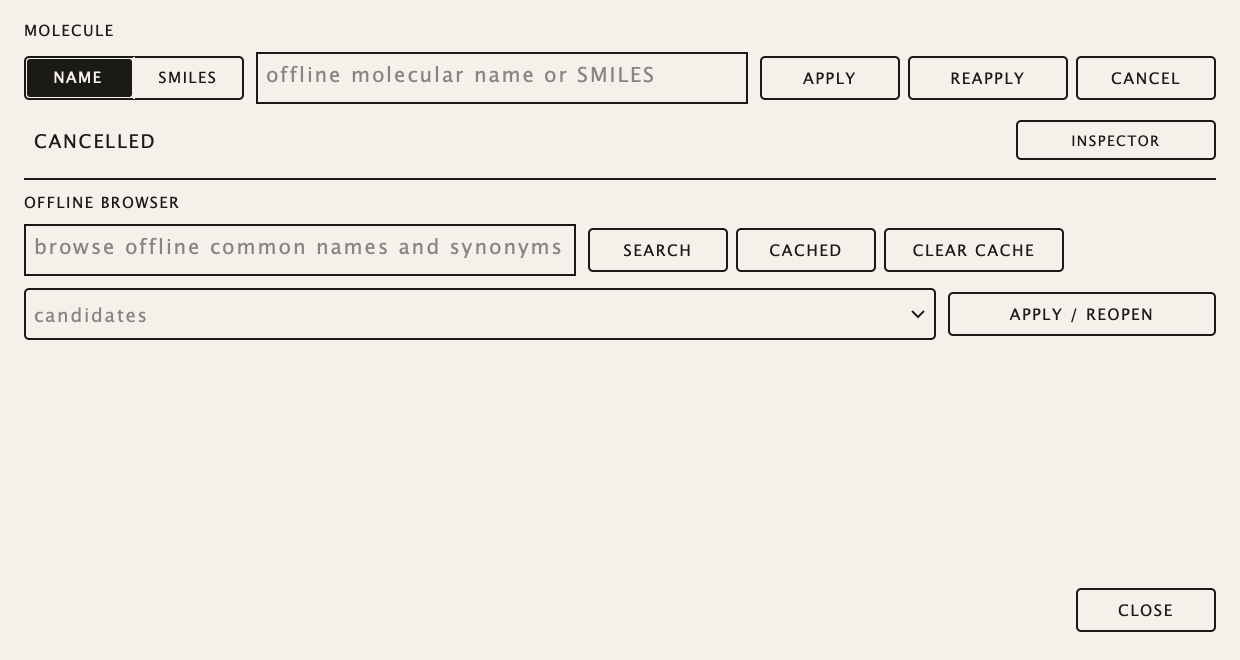
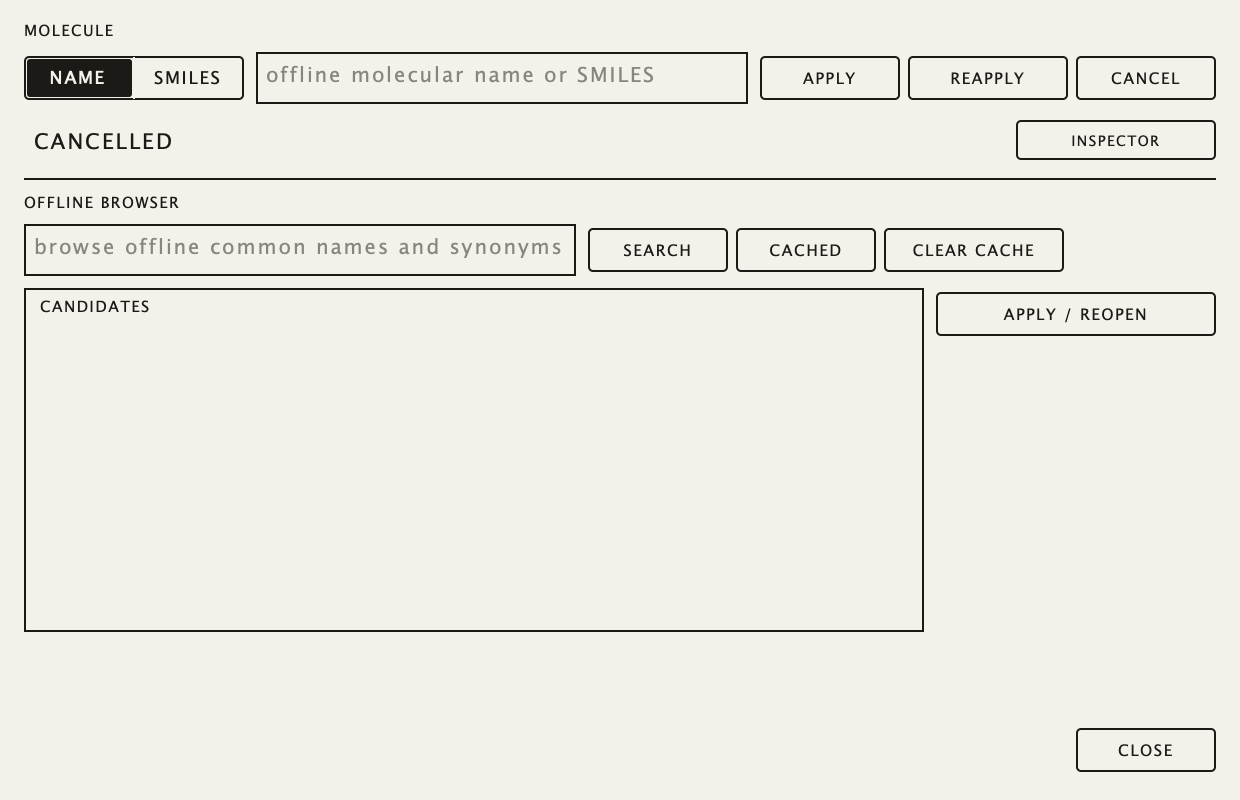
fix(ui): make the chemistry candidate list a scrollable ListBox (#103) (#107)

diff --git a/src/plugin/ChemistryPopup.cpp b/src/plugin/ChemistryPopup.cpp
@@ -7,32 +7,54 @@ ChemistryPopup::ChemistryPopup(IupacSynthProcessor&o):owner_(o)
  setName("Chemistry popup");for(auto*c:std::initializer_list<juce::Component*>{&mode_,&input_,&apply_,&reapply_,&cancel_,&status_,&inspector_,&trace_,&query_,&search_,&cached_,&clearCache_,&results_,&open_,&metadata_,&closeButton_})addAndMakeVisible(c);
  input_.setTextToShowWhenEmpty("offline molecular name or SMILES",ui::ink.withAlpha(0.5f));input_.setName("Molecular input");input_.setFont(ui::labelFont(12.0f));query_.setTextToShowWhenEmpty("browse offline common names and synonyms",ui::ink.withAlpha(0.5f));query_.setName("Offline discovery query");query_.setFont(ui::labelFont(12.0f));
  trace_.setMultiLine(true);trace_.setReadOnly(true);trace_.setVisible(false);trace_.setName("Analysis SonicIntent and mapping trace");trace_.setFont(juce::Font(juce::FontOptions(juce::Font::getDefaultMonospacedFontName(),10.0f,juce::Font::plain)));inspector_.setClickingTogglesState(true);inspector_.setName("Analysis / SonicIntent / mapping trace");
- status_.setName("Chemistry status");status_.setJustificationType(juce::Justification::centredLeft);metadata_.setName("Selected record structure and provenance");metadata_.setJustificationType(juce::Justification::centredLeft);metadata_.setMinimumHorizontalScale(0.5f);results_.setName("Bounded offline discovery candidates or cached results");results_.setTextWhenNothingSelected("candidates");
+ status_.setName("Chemistry status");status_.setJustificationType(juce::Justification::centredLeft);metadata_.setName("Selected record structure and provenance");metadata_.setJustificationType(juce::Justification::centredLeft);metadata_.setMinimumHorizontalScale(0.5f);results_.setName("Bounded offline discovery candidates or cached results");results_.setModel(this);results_.setRowHeight(18);results_.setOutlineThickness((int)ui::hairline);results_.setMultipleSelectionEnabled(false);results_.setWantsKeyboardFocus(true);
+ // The rows paint their own opaque background, so the box itself stays clear and the popup can draw the
+ // "candidates" hint underneath while the list is empty.
+ results_.setColour(juce::ListBox::backgroundColourId,juce::Colours::transparentBlack);
  // The popup no longer closes on Apply and waits for nothing on the message thread (#97):
  // the request runs on the coordinator's worker, the 10 Hz timer below shows the stage it
  // reports, and the dialog closes only once that request has actually produced a sound.
  apply_.onClick=[this]{if(input_.getText().trim().isEmpty()){status_.setText("enter a name or SMILES",juce::dontSendNotification);return;}awaitedGeneration_=owner_.applyChemistry(mode_.index()==0?chemistry::InputMode::name:chemistry::InputMode::smiles,input_.getText().toStdString());showPending(true);timerCallback();};
  reapply_.onClick=[this]{const auto e=owner_.reapplyChemistry();if(!e.empty()){if(onResult)onResult(e,{});status_.setText(e,juce::dontSendNotification);return;}awaitedGeneration_=owner_.chemistryStatus().generation;showPending(true);timerCallback();};
- cancel_.onClick=[this]{owner_.cancelChemistry();owner_.cancelDiscovery();showPending(false);};inspector_.onClick=[this]{trace_.setVisible(inspector_.getToggleState());if(onPreferredSize)onPreferredSize(getWidth(),trace_.isVisible()?560:330);resized();};
+ cancel_.onClick=[this]{owner_.cancelChemistry();owner_.cancelDiscovery();showPending(false);};inspector_.onClick=[this]{trace_.setVisible(inspector_.getToggleState());if(onPreferredSize)onPreferredSize(getWidth(),trace_.isVisible()?630:400);resized();};
  search_.onClick=[this]{owner_.searchDiscovery(query_.getText().toStdString(),true);};cached_.onClick=[this]{owner_.inspectGeneratedCache();};clearCache_.onClick=[this]{const auto e=owner_.clearGeneratedCache();status_.setText(e.empty()?"Generated cache cleared; presets untouched":e,juce::dontSendNotification);};
- results_.onChange=[this]{auto i=results_.getSelectedItemIndex();if(i>=0&&i<candidates_.size()){auto r=candidates_[i];metadata_.setText(r.getProperty("recordId",{}).toString()+r.getProperty("key",{}).toString()+" | "+r.getProperty("canonicalIsomericSmiles",{}).toString()+r.getProperty("identity",{}).toString()+" | "+r.getProperty("validationStatus",{}).toString()+" | "+r.getProperty("revisionUrl",{}).toString(),juce::dontSendNotification);}};
  // A cached result is a file and loads at once; a validated structure starts the same
  // background generation Apply does, so it gets the same pending state rather than a
  // closed popup and a silent wait (#97).
- open_.onClick=[this]{auto i=results_.getSelectedItemIndex();if(i<0||i>=candidates_.size()){status_.setText("select an explicit discovery candidate or cached result",juce::dontSendNotification);return;}const auto before=owner_.chemistryStatus().generation;const auto e=owner_.applyDiscovery(candidates_[i]);if(!e.empty()){if(onResult)onResult(e,{});status_.setText(e,juce::dontSendNotification);return;}const auto after=owner_.chemistryStatus().generation;if(after!=before){awaitedGeneration_=after;showPending(true);timerCallback();return;}if(onResult)onResult({},"Selected sound loaded");close();};
+ open_.onClick=[this]{const auto i=selectedCandidate();if(i<0){status_.setText("select an explicit discovery candidate or cached result",juce::dontSendNotification);return;}const auto before=owner_.chemistryStatus().generation;const auto e=owner_.applyDiscovery(candidates_[i]);if(!e.empty()){if(onResult)onResult(e,{});status_.setText(e,juce::dontSendNotification);return;}const auto after=owner_.chemistryStatus().generation;if(after!=before){awaitedGeneration_=after;showPending(true);timerCallback();return;}if(onResult)onResult({},"Selected sound loaded");close();};
  closeButton_.onClick=[this]{close();};query_.onReturnKey=[this]{search_.triggerClick();};input_.onReturnKey=[this]{apply_.triggerClick();};
- setSize(620,330);timerCallback();startTimerHz(10);
+ setSize(620,400);timerCallback();startTimerHz(10);
 }
 ChemistryPopup::~ChemistryPopup(){stopTimer();}
 void ChemistryPopup::close(){if(onClose)onClose();}
+int ChemistryPopup::getNumRows(){return labels_.size();}
+int ChemistryPopup::selectedCandidate()const{const auto row=results_.getSelectedRow();return row>=0&&row<candidates_.size()?row:-1;}
+void ChemistryPopup::paintListBoxItem(int row,juce::Graphics&g,int width,int height,bool selected)
+{
+ if(row<0||row>=labels_.size())return;
+ g.setColour(selected?ui::ink:ui::ground);g.fillRect(0,0,width,height);
+ g.setColour(selected?ui::ground:ui::ink);g.setFont(ui::labelFont(juce::jlimit(ui::minimumTextHeight,ui::scaledText(*this,10.0f),(float)height*0.62f)));
+ g.drawFittedText(labels_[row].toUpperCase(),juce::Rectangle<int>(0,0,width,height).reduced(6,0),juce::Justification::centredLeft,1,1.0f);
+}
+void ChemistryPopup::selectedRowsChanged(int)
+{
+ const auto i=selectedCandidate();if(i<0){metadata_.setText({},juce::dontSendNotification);return;}
+ auto r=candidates_[i];metadata_.setText(r.getProperty("recordId",{}).toString()+r.getProperty("key",{}).toString()+" | "+r.getProperty("canonicalIsomericSmiles",{}).toString()+r.getProperty("identity",{}).toString()+" | "+r.getProperty("validationStatus",{}).toString()+" | "+r.getProperty("revisionUrl",{}).toString(),juce::dontSendNotification);
+}
 void ChemistryPopup::showPending(bool pending){awaiting_=pending;if(!pending)awaitedGeneration_=0;apply_.setEnabled(!pending);reapply_.setEnabled(!pending);open_.setEnabled(!pending);}
-void ChemistryPopup::paint(juce::Graphics&g){g.fillAll(ui::ground);g.setColour(ui::ink);ui::drawCaption(g,"molecule",juce::Rectangle<int>(12,8,200,14),juce::Justification::centredLeft,9.0f);ui::drawCaption(g,"offline browser",browserTitle_,juce::Justification::centredLeft,9.0f);g.drawLine(12.0f,(float)browserTitle_.getY()-4.5f,(float)getWidth()-12.0f,(float)browserTitle_.getY()-4.5f,ui::hairline);}
+void ChemistryPopup::paint(juce::Graphics&g){g.fillAll(ui::ground);g.setColour(ui::ink);ui::drawCaption(g,"molecule",juce::Rectangle<int>(12,8,200,14),juce::Justification::centredLeft,9.0f);ui::drawCaption(g,"offline browser",browserTitle_,juce::Justification::centredLeft,9.0f);if(labels_.isEmpty())ui::drawCaption(g,"candidates",results_.getBounds().withHeight(18).reduced(8,0),juce::Justification::centredLeft,9.0f);g.drawLine(12.0f,(float)browserTitle_.getY()-4.5f,(float)getWidth()-12.0f,(float)browserTitle_.getY()-4.5f,ui::hairline);}
 void ChemistryPopup::resized()
 {
  auto r=getLocalBounds().reduced(12);r.removeFromTop(14);auto line=r.removeFromTop(26);mode_.setBounds(line.removeFromLeft(110).reduced(0,2));line.removeFromLeft(6);cancel_.setBounds(line.removeFromRight(70).reduced(0,2));line.removeFromRight(4);reapply_.setBounds(line.removeFromRight(80).reduced(0,2));line.removeFromRight(4);apply_.setBounds(line.removeFromRight(70).reduced(0,2));line.removeFromRight(6);input_.setBounds(line);
  r.removeFromTop(6);line=r.removeFromTop(24);inspector_.setBounds(line.removeFromRight(100).reduced(0,2));status_.setBounds(line);r.removeFromTop(12);browserTitle_=r.removeFromTop(14);r.removeFromTop(4);
  line=r.removeFromTop(26);query_.setBounds(line.removeFromLeft(juce::jmax(160,line.getWidth()-320)));line.removeFromLeft(6);search_.setBounds(line.removeFromLeft(70).reduced(0,2));line.removeFromLeft(4);cached_.setBounds(line.removeFromLeft(70).reduced(0,2));line.removeFromLeft(4);clearCache_.setBounds(line.removeFromLeft(90).reduced(0,2));
- r.removeFromTop(6);line=r.removeFromTop(26);results_.setBounds(line.removeFromLeft(juce::jmax(160,line.getWidth()-140)));line.removeFromLeft(6);open_.setBounds(line.reduced(0,2));r.removeFromTop(6);metadata_.setBounds(r.removeFromTop(22));r.removeFromTop(6);
+ // The candidate list needs several rows of its own height, not one combo line: BROWSE-01 pages through a bounded
+ // search of up to 32 hits and every one of them has to be reachable by wheel, drag and arrow key (#103).
+ // Metadata line, close row and their gaps are all that sit below the list; the rest of the popup is the list while
+ // the inspector is closed, and the trace takes the growth when it opens.
+ r.removeFromTop(6);const int available=juce::jmax(3*results_.getRowHeight(),r.getHeight()-72);
+ auto results=r.removeFromTop(trace_.isVisible()?juce::jmin(96,available):available);auto side=results.removeFromRight(140);results.removeFromRight(6);open_.setBounds(side.removeFromTop(26).reduced(0,2));results_.setBounds(results);
+ r.removeFromTop(6);metadata_.setBounds(r.removeFromTop(22));r.removeFromTop(6);
  auto bottom=r.removeFromBottom(26);closeButton_.setBounds(bottom.removeFromRight(70).reduced(0,2));r.removeFromBottom(6);trace_.setBounds(r);
 }
 void ChemistryPopup::timerCallback()
@@ -41,6 +63,7 @@ void ChemistryPopup::timerCallback()
  // The request this popup started has finished: report it and leave, or stay open
  // with the diagnostic so the input can be corrected without retyping it.
  if(awaiting_&&!chemistry.busy&&chemistry.generation==awaitedGeneration_){const auto failed=chemistry.failed;showPending(false);if(failed){status_.setText(chemistry.text,juce::dontSendNotification);return;}if(onResult)onResult({},juce::String(chemistry.text));close();return;}
- auto discovery=owner_.discoveryStatus();if(discovery.generation!=shownDiscoveryGeneration_){status_.setText("Discovery: "+juce::String(discovery.text),juce::dontSendNotification);if(!discovery.busy){shownDiscoveryGeneration_=discovery.generation;candidates_.clear();results_.clear();auto items=discovery.result.getProperty("candidates",{});if(!items.isArray())items=discovery.result;if(auto*a=items.getArray()){int id=1;for(const auto&x:*a){candidates_.add(x.clone());auto label=x.getProperty("displayName",{}).toString();if(label.isEmpty())label=x.getProperty("identity",{}).toString()+" [mapper "+x.getProperty("versions",{}).getProperty("mapper",{}).toString()+"]";results_.addItem(label,id++);}}}}
+ auto discovery=owner_.discoveryStatus();if(discovery.generation!=shownDiscoveryGeneration_){status_.setText("Discovery: "+juce::String(discovery.text),juce::dontSendNotification);if(!discovery.busy){shownDiscoveryGeneration_=discovery.generation;candidates_.clear();labels_.clear();auto items=discovery.result.getProperty("candidates",{});if(!items.isArray())items=discovery.result;if(auto*a=items.getArray())for(const auto&x:*a){candidates_.add(x.clone());auto label=x.getProperty("displayName",{}).toString();if(label.isEmpty())label=x.getProperty("identity",{}).toString()+" [mapper "+x.getProperty("versions",{}).getProperty("mapper",{}).toString()+"]";labels_.add(label);}
+ results_.deselectAllRows();results_.updateContent();results_.scrollToEnsureRowIsOnscreen(0);metadata_.setText({},juce::dontSendNotification);repaint();}}
 }
 #endif

diff --git a/tests/EditorTests.cpp b/tests/EditorTests.cpp
@@ -281,6 +281,53 @@ field.setEffective(processor.effectiveValues());ok&=expect(cutoff&&cutoff->effec
    ok&=expect(!processor.chemistryStatus().busy,"a cancelled request is no longer busy");
   }
  }
+ // #103: a bounded offline search returns far more candidates than one line of UI shows. The candidate list must be
+ // a real viewport — every entry reachable by wheel, by scrollbar drag and by arrow key, with the selection applying
+ // to the record the row stands for. Driven through the production search/populate path, not by poking the list.
+ if(argc==2)
+ {
+  ChemistryPopup popup(processor);popup.setLookAndFeel(&editor->getLookAndFeel());popup.setVisible(true);
+  auto*query=named<juce::TextEditor>(popup,"Offline discovery query");
+  auto*search=labelled(popup,"search");
+  auto*list=named<juce::ListBox>(popup,"Bounded offline discovery candidates or cached results");
+  auto*metadata=named<juce::Label>(popup,"Selected record structure and provenance");
+  ok&=expect(query!=nullptr&&search!=nullptr&&list!=nullptr&&metadata!=nullptr,"the popup exposes the offline query and the candidate list");
+  if(query&&search&&list&&metadata)
+  {
+   query->setText("acid");click(*search);
+   for(int i=0;i<300&&processor.discoveryStatus().busy;++i)juce::Thread::sleep(10);
+   tick();// the popup's own 10 Hz refresh is what moves a finished search into the list
+   const int rows=list->getListBoxModel()!=nullptr?list->getListBoxModel()->getNumRows():0;
+   ok&=expect(rows==50,"the finished search populates the candidate list with every returned record");
+   auto*viewport=list->getViewport();
+   ok&=expect(viewport!=nullptr&&viewport->getViewedComponent()!=nullptr,"the candidate list is backed by a viewport");
+   if(rows==50&&viewport&&viewport->getViewedComponent())
+   {
+    const int content=rows*list->getRowHeight();
+    ok&=expect(viewport->getViewHeight()<content,"the visible candidate viewport is smaller than its content");
+    ok&=expect(list->getNumRowsOnScreen()<rows,"more candidates exist than fit on screen");
+    ok&=expect(list->getVerticalScrollBar().isVisible(),"the candidate list shows the scrollbar that makes it draggable");
+    // Wheel.
+    const int top=viewport->getViewPositionY();
+    juce::MouseWheelDetails wheel{};wheel.deltaY=-1.0f;
+    viewport->mouseWheelMove(event(*viewport,centreOf(*viewport)),wheel);
+    ok&=expect(viewport->getViewPositionY()>top,"the mouse wheel scrolls the candidate list");
+    // Arrow keys move the selection and drag the viewport along to it, including past the visible window.
+    list->selectRow(0);
+    ok&=expect(list->getSelectedRow()==0,"the first candidate selects");
+    ok&=expect(list->keyPressed(juce::KeyPress(juce::KeyPress::downKey))&&list->getSelectedRow()==1,"the down arrow moves the candidate selection");
+    list->selectRow(rows-1);
+    ok&=expect(list->getSelectedRow()==rows-1,"the last candidate is reachable");
+    const auto last=juce::Rectangle<int>(0,(rows-1)*list->getRowHeight(),1,list->getRowHeight());
+    ok&=expect(viewport->getViewArea().intersects(last),"selecting the last candidate scrolls it into view");
+    // Selection applies: the provenance label names the record the selected row stands for.
+    ok&=expect(metadata->getText().contains("Q1049"),"the selected candidate's record drives the provenance label");
+    list->deselectAllRows();
+    ok&=expect(metadata->getText().isEmpty(),"deselecting clears the provenance label");
+   }
+  }
+  popup.setLookAndFeel(nullptr);
+ }
 #endif
  editor->setVisible(false);editor.reset();return ok?0:1;
 }

diff --git a/src/plugin/ChemistryPopup.hpp b/src/plugin/ChemistryPopup.hpp
@@ -6,7 +6,7 @@
 #include "EditorControls.hpp"
 #include <memory>
 class IupacSynthProcessor;
-class ChemistryPopup final:public juce::Component,private juce::Timer
+class ChemistryPopup final:public juce::Component,private juce::Timer,private juce::ListBoxModel
 {
 public:
  explicit ChemistryPopup(IupacSynthProcessor&);~ChemistryPopup()override;void resized()override;void paint(juce::Graphics&)override;
@@ -15,10 +15,15 @@ public:
  std::function<void(int,int)>onPreferredSize;
 private:
  void timerCallback()override;void close();
+ // The candidate list is a juce::ListBox, not a ComboBox popup menu (#103): a bounded search returns far more
+ // entries than a menu shows, and only a viewport-backed list gives the wheel, the drag and the arrow keys at once.
+ int getNumRows()override;void paintListBoxItem(int,juce::Graphics&,int,int,bool)override;void selectedRowsChanged(int)override;
+ // Index into `candidates_` of the row the user has explicitly selected, or -1.
+ [[nodiscard]]int selectedCandidate()const;
  // Reflect a request that is still running: the popup stays open and interactive,
  // Apply is unavailable while its own request is in flight, and Cancel is the way out (#97).
  void showPending(bool);
- IupacSynthProcessor&owner_;iupac::ui::SegmentToggle mode_{{"name","smiles"}};juce::TextEditor input_,trace_,query_;juce::TextButton apply_{"apply"},reapply_{"reapply"},cancel_{"cancel"},inspector_{"inspector"},search_{"search"},cached_{"cached"},clearCache_{"clear cache"},open_{"apply / reopen"},closeButton_{"close"};juce::Label status_,metadata_;juce::ComboBox results_;juce::Array<juce::var>candidates_;std::uint64_t shownChemistryGeneration_{},shownDiscoveryGeneration_{},awaitedGeneration_{};bool awaiting_{};juce::Rectangle<int>browserTitle_;
+ IupacSynthProcessor&owner_;iupac::ui::SegmentToggle mode_{{"name","smiles"}};juce::TextEditor input_,trace_,query_;juce::TextButton apply_{"apply"},reapply_{"reapply"},cancel_{"cancel"},inspector_{"inspector"},search_{"search"},cached_{"cached"},clearCache_{"clear cache"},open_{"apply / reopen"},closeButton_{"close"};juce::Label status_,metadata_;juce::ListBox results_;juce::StringArray labels_;juce::Array<juce::var>candidates_;std::uint64_t shownChemistryGeneration_{},shownDiscoveryGeneration_{},awaitedGeneration_{};bool awaiting_{};juce::Rectangle<int>browserTitle_;
 };
 // In-editor modal overlay (#101). The popup is a child of the editor, never a desktop window: a separate window
 // floats above every application system-wide and, in the out-of-process AU, has no parent relationship to the host's
@@ -36,7 +41,7 @@ public:
  {
   setName("Chemistry overlay");setWantsKeyboardFocus(true);setInterceptsMouseClicks(true,true);
   addAndMakeVisible(closeButton_);closeButton_.setName("Close chemistry");closeButton_.onClick=[this]{dismiss();};
-  addAndMakeVisible(*popup_);
+  addAndMakeVisible(*popup_);content_={popup_->getWidth(),popup_->getHeight()};
  }
  std::function<void()>onDismiss;
  [[nodiscard]]ChemistryPopup&popup()noexcept{return*popup_;}

diff --git a/tests/FakeChemistryHelper.cpp b/tests/FakeChemistryHelper.cpp
@@ -22,6 +22,25 @@ int main()
                   << "\",\"status\":\"ok\",\"warm\":{\"discovery\":\"ok\",\"opsin\":\"ok\"}}";
         return 0;
     }
+    // #103: a bounded offline search returns far more candidates than a popup menu shows. Answer `discover`
+    // with 50 synthetic records so the editor test drives the production search/populate path and can assert
+    // that the candidate list scrolls to reach every one of them.
+    // The protocol is written with juce::JSON::toString(v, false), so match the value, not a packed "key":"value".
+    if (request.find("\"discover\"") != std::string::npos) {
+        std::string reply = "{\"protocolVersion\":1,\"requestId\":\"" + requestId
+                          + "\",\"status\":\"ok\",\"discovery\":{\"query\":\"acid\",\"candidates\":[";
+        for (int i = 0; i < 50; ++i) {
+            const auto n = std::to_string(i);
+            if (i != 0) reply += ',';
+            reply += "{\"displayName\":\"fixture acid " + n + "\",\"identity\":\"fixture-" + n
+                   + "\",\"recordId\":\"Q" + std::to_string(1000 + i)
+                   + "\",\"canonicalIsomericSmiles\":\"CCO\",\"validationStatus\":\"validated\""
+                   + ",\"revisionUrl\":\"offline\"}";
+        }
+        reply += "]}}";
+        std::cout << reply;
+        return 0;
+    }
     if (request.find("slow") != std::string::npos) std::this_thread::sleep_for(std::chrono::seconds(5));
     if (request.find("reject") != std::string::npos) {
         std::cout << "{\"diagnostic\":\"unsupported fixture\",\"protocolVersion\":1,\"requestId\":\"" << requestId << "\",\"status\":\"error\"}";
